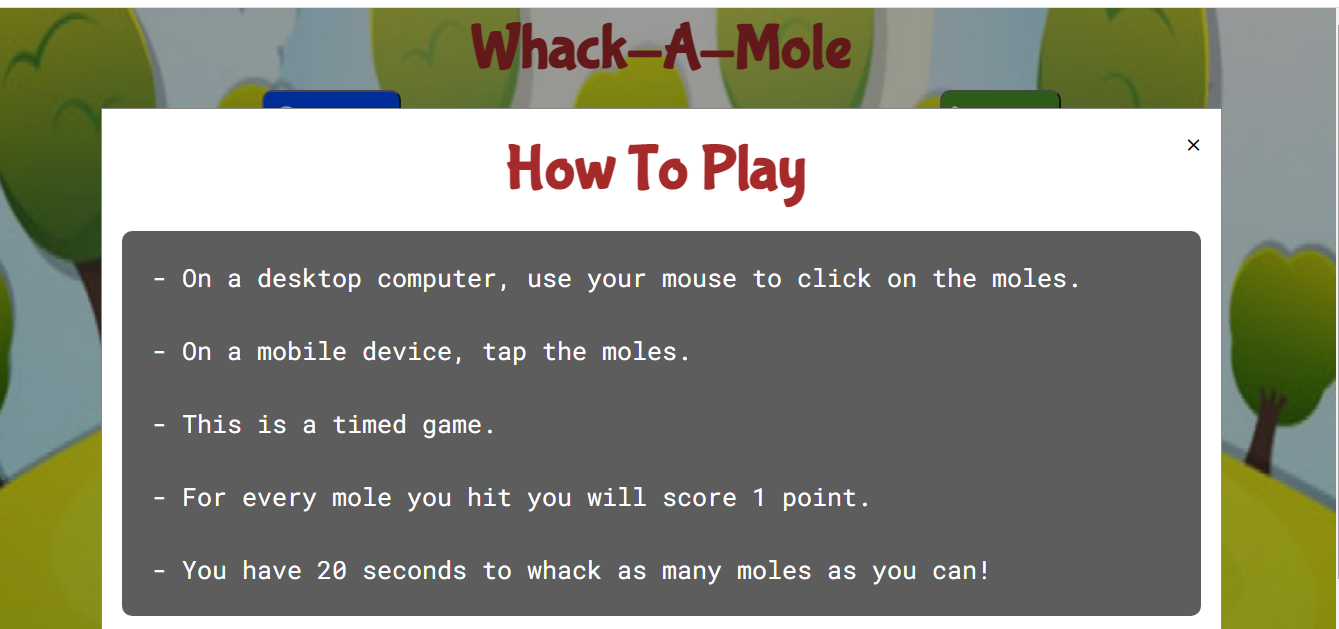
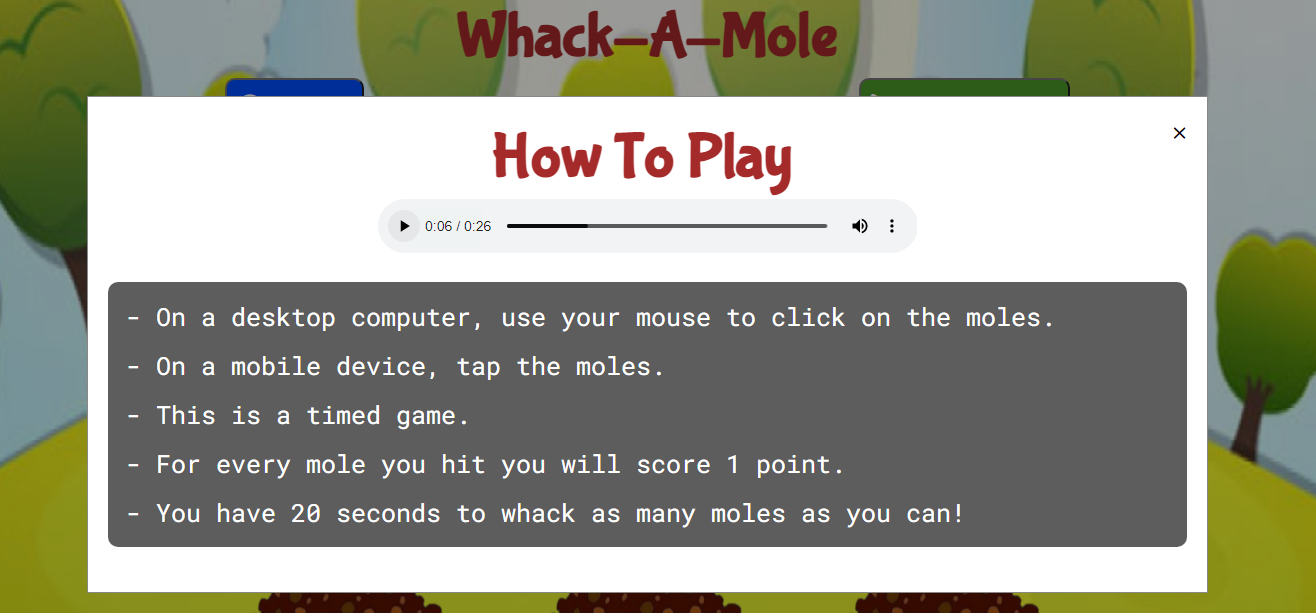
docs: add information about the audio file to README

Changed region(s): [[0.0, 0.0, 1.0, 1.0]]

diff --git a/README.md b/README.md
@@ -6,7 +6,7 @@ Whack-A-Mole is an arcade game from the 1970's where a player used a mallet to h
 
 This game was chosen as it seems to appeal to the target audience of children aged 4-8 years old because the instructions on game play are not overly complicated, the game play time can be short to hold focus and interest and the game could be designed in a way to be bright, cheerful, funny and interactive to the target audience.  
 
-As children aged 4-8 years are at entry level reading, this game does not require lots of reading to interact and play.  This game is contained on one page so it is easliy accessible and allows the target audience to interact immediately without having to follow any instructions or navigate their way through different pages to access the game play.  
+As children aged 4-8 years are at entry level reading, this game does not require lots of reading to interact and play.  This game includes an audio file that reads out the instruction on screen to help the user understand if they cannot read yet.  This game is contained on one page so it is easliy accessible and allows the target audience to interact immediately without having to follow any instructions or navigate their way through different pages to access the game play.  
 
 The main reason why this game was chosen is that there is potential for this game to be developed further to act as a fun, interactive Reading and Maths game for children aged 4-8 years, which is explained below in the Features Left to Impliment Section.
 
@@ -88,7 +88,7 @@ The colour scheme was chosen by using [Coolors](https://coolors.co/). The follow
 
 *   On click of the About Button a Modal Box opens with instructions on how to play.  The font style was kept consistant within this box to the font and colours used on the main game page.  The background is darken to cover the game play area slightly but not fully.  
 
-*   The instructions are kept minimula and in easy to use language for children.  It is thought that an adult will read these to the users that cannot read yet.  However, as this is a popular and simple game to play the user can still have a try at playing without having to read the instructions.
+*   The instructions are kept minimum and in easy to use language for children.  As the target audience may not be able to read fully yet, an audio file was placed in this box at the start.  The user has control over the file and if played it will read down through the instructions for the user.  If the user closes the box before stopping the audio, the Javascript ensure s the audio file will close automatically for the user and reset it back to the start if the box is opened again.
 
 *   The X to close the How to Play box changes colour on hover to give feedback to the user it is interactive.  It is located in the top right of the box where it is typically found accoss most sites.  
 
@@ -206,6 +206,8 @@ HTML, CSS, JavaScript
 *   The About button was tested to ensure it changed colour on hover and that it functioned on click to open the How to Play Modal Box.
 
 *   The How to Play Modal Box was also tested.  The X to close in the righthand corner changed colour when hovered over and also closed the box when clicked.  Also, tested was if a user clicked anywhere outside the box, this would also close it.  This box was tested to ensure that it opened during game play incase the user needs to check the instructions after the game starts.  All this functioned as expected.
+
+*   The Audio controls were tested by opening the How to Play Box and ensuring it did not start without the user initiating it.  Also, the Javascript was tested to ensure that if a user closed the Box before stopping the audio, that the audio would pause on close (from pressing X or tapping outside the box).  The Audio was checked that it was reset back to the start each time the About button was clicked.
 
 *   The Play button was tested to ensure it changed colour on hover and that it functioned on click to start the game.  It was tested to check it was disabled during game play but enabled and changed to Play Again once the game play was over.
 
